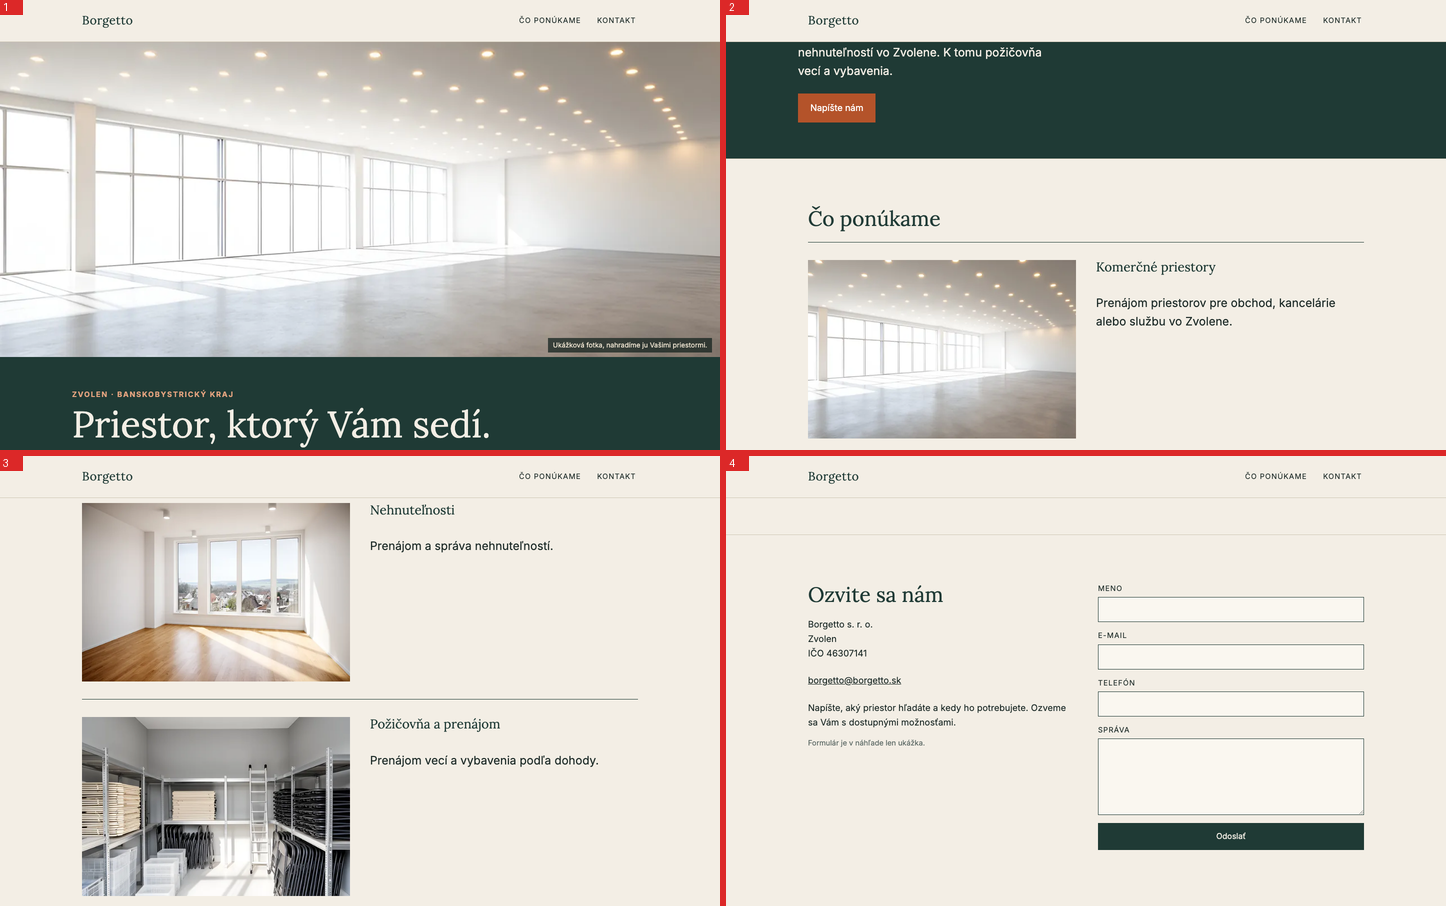
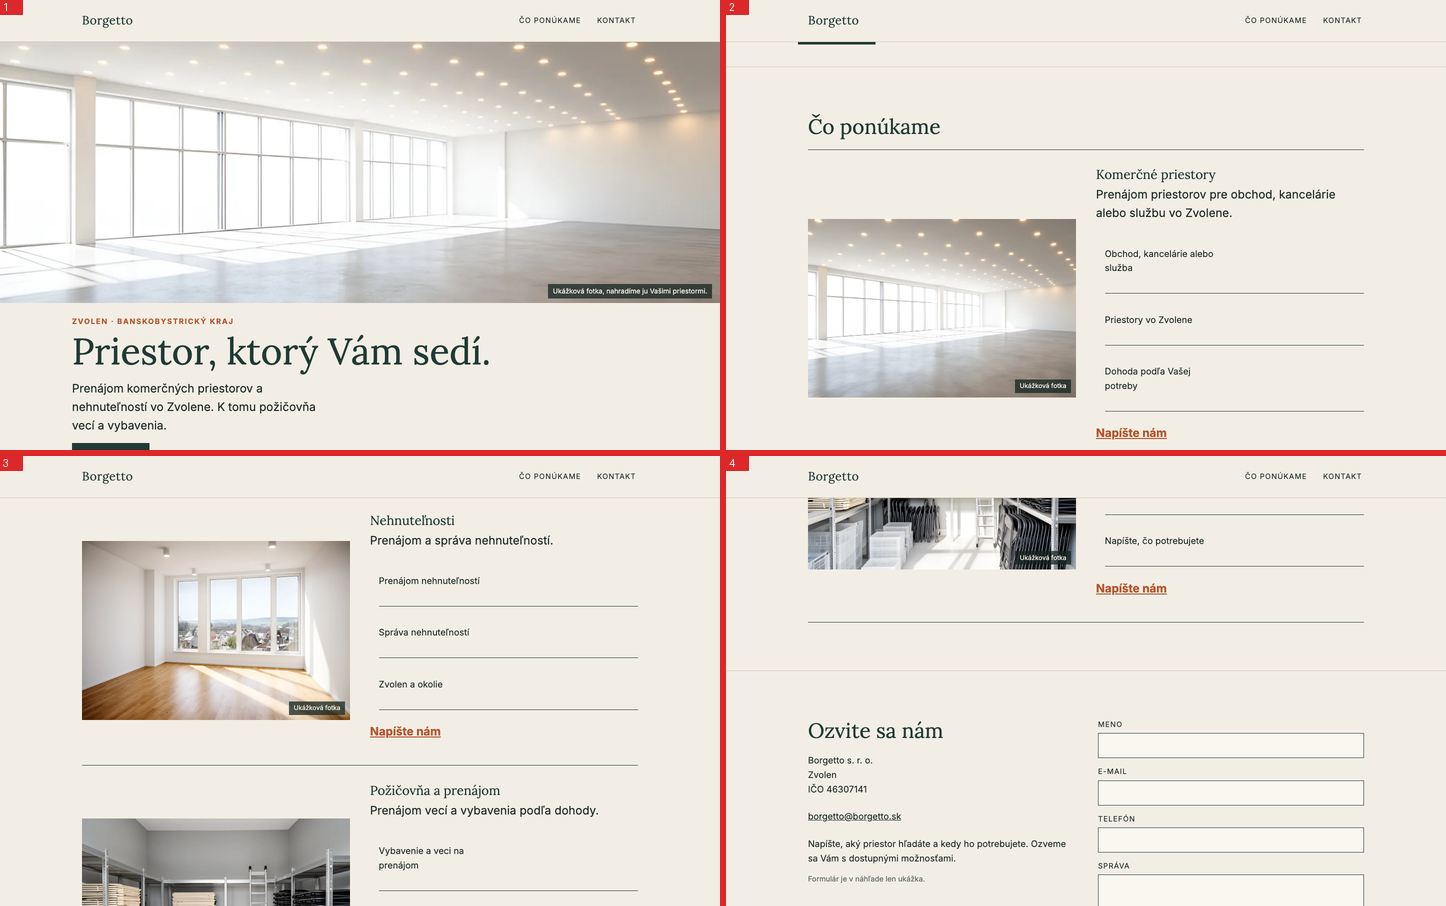
Aktualizace webu 2026-11-14 07:23

diff --git a/static/css/style.css b/static/css/style.css
@@ -163,3 +163,10 @@ h1,h2,h3,.logo{font-family:Lora,Georgia,serif;font-weight:400}.logo{font-weight:
 .karty li .txt{align-self:center}.karty li .txt h3{margin-bottom:.5rem}
 .odkaz{display:inline-block;padding:.8rem 0;min-height:44px;color:var(--warm);font-weight:700}
 @media(max-width:820px){.hero-foto img{height:42vh;min-height:0}}
+/* kolo 6 */
+.hero-foto img{height:50vh}.hero-text{padding:1.2rem 0 1.8rem}
+.karty li .txt ul{list-style:none;padding:0;margin:.6rem 0}
+.karty li .txt li{font-size:1rem;margin:.1rem 0;padding:0;border:0}.karty li .txt li::before{content:"– ";color:var(--warm)}
+.karty>li:nth-child(even) .fig{order:2}
+.logo{border-bottom:0;text-decoration:none}
+@media(max-width:820px){.karty>li:nth-child(even) .fig{order:0}}
